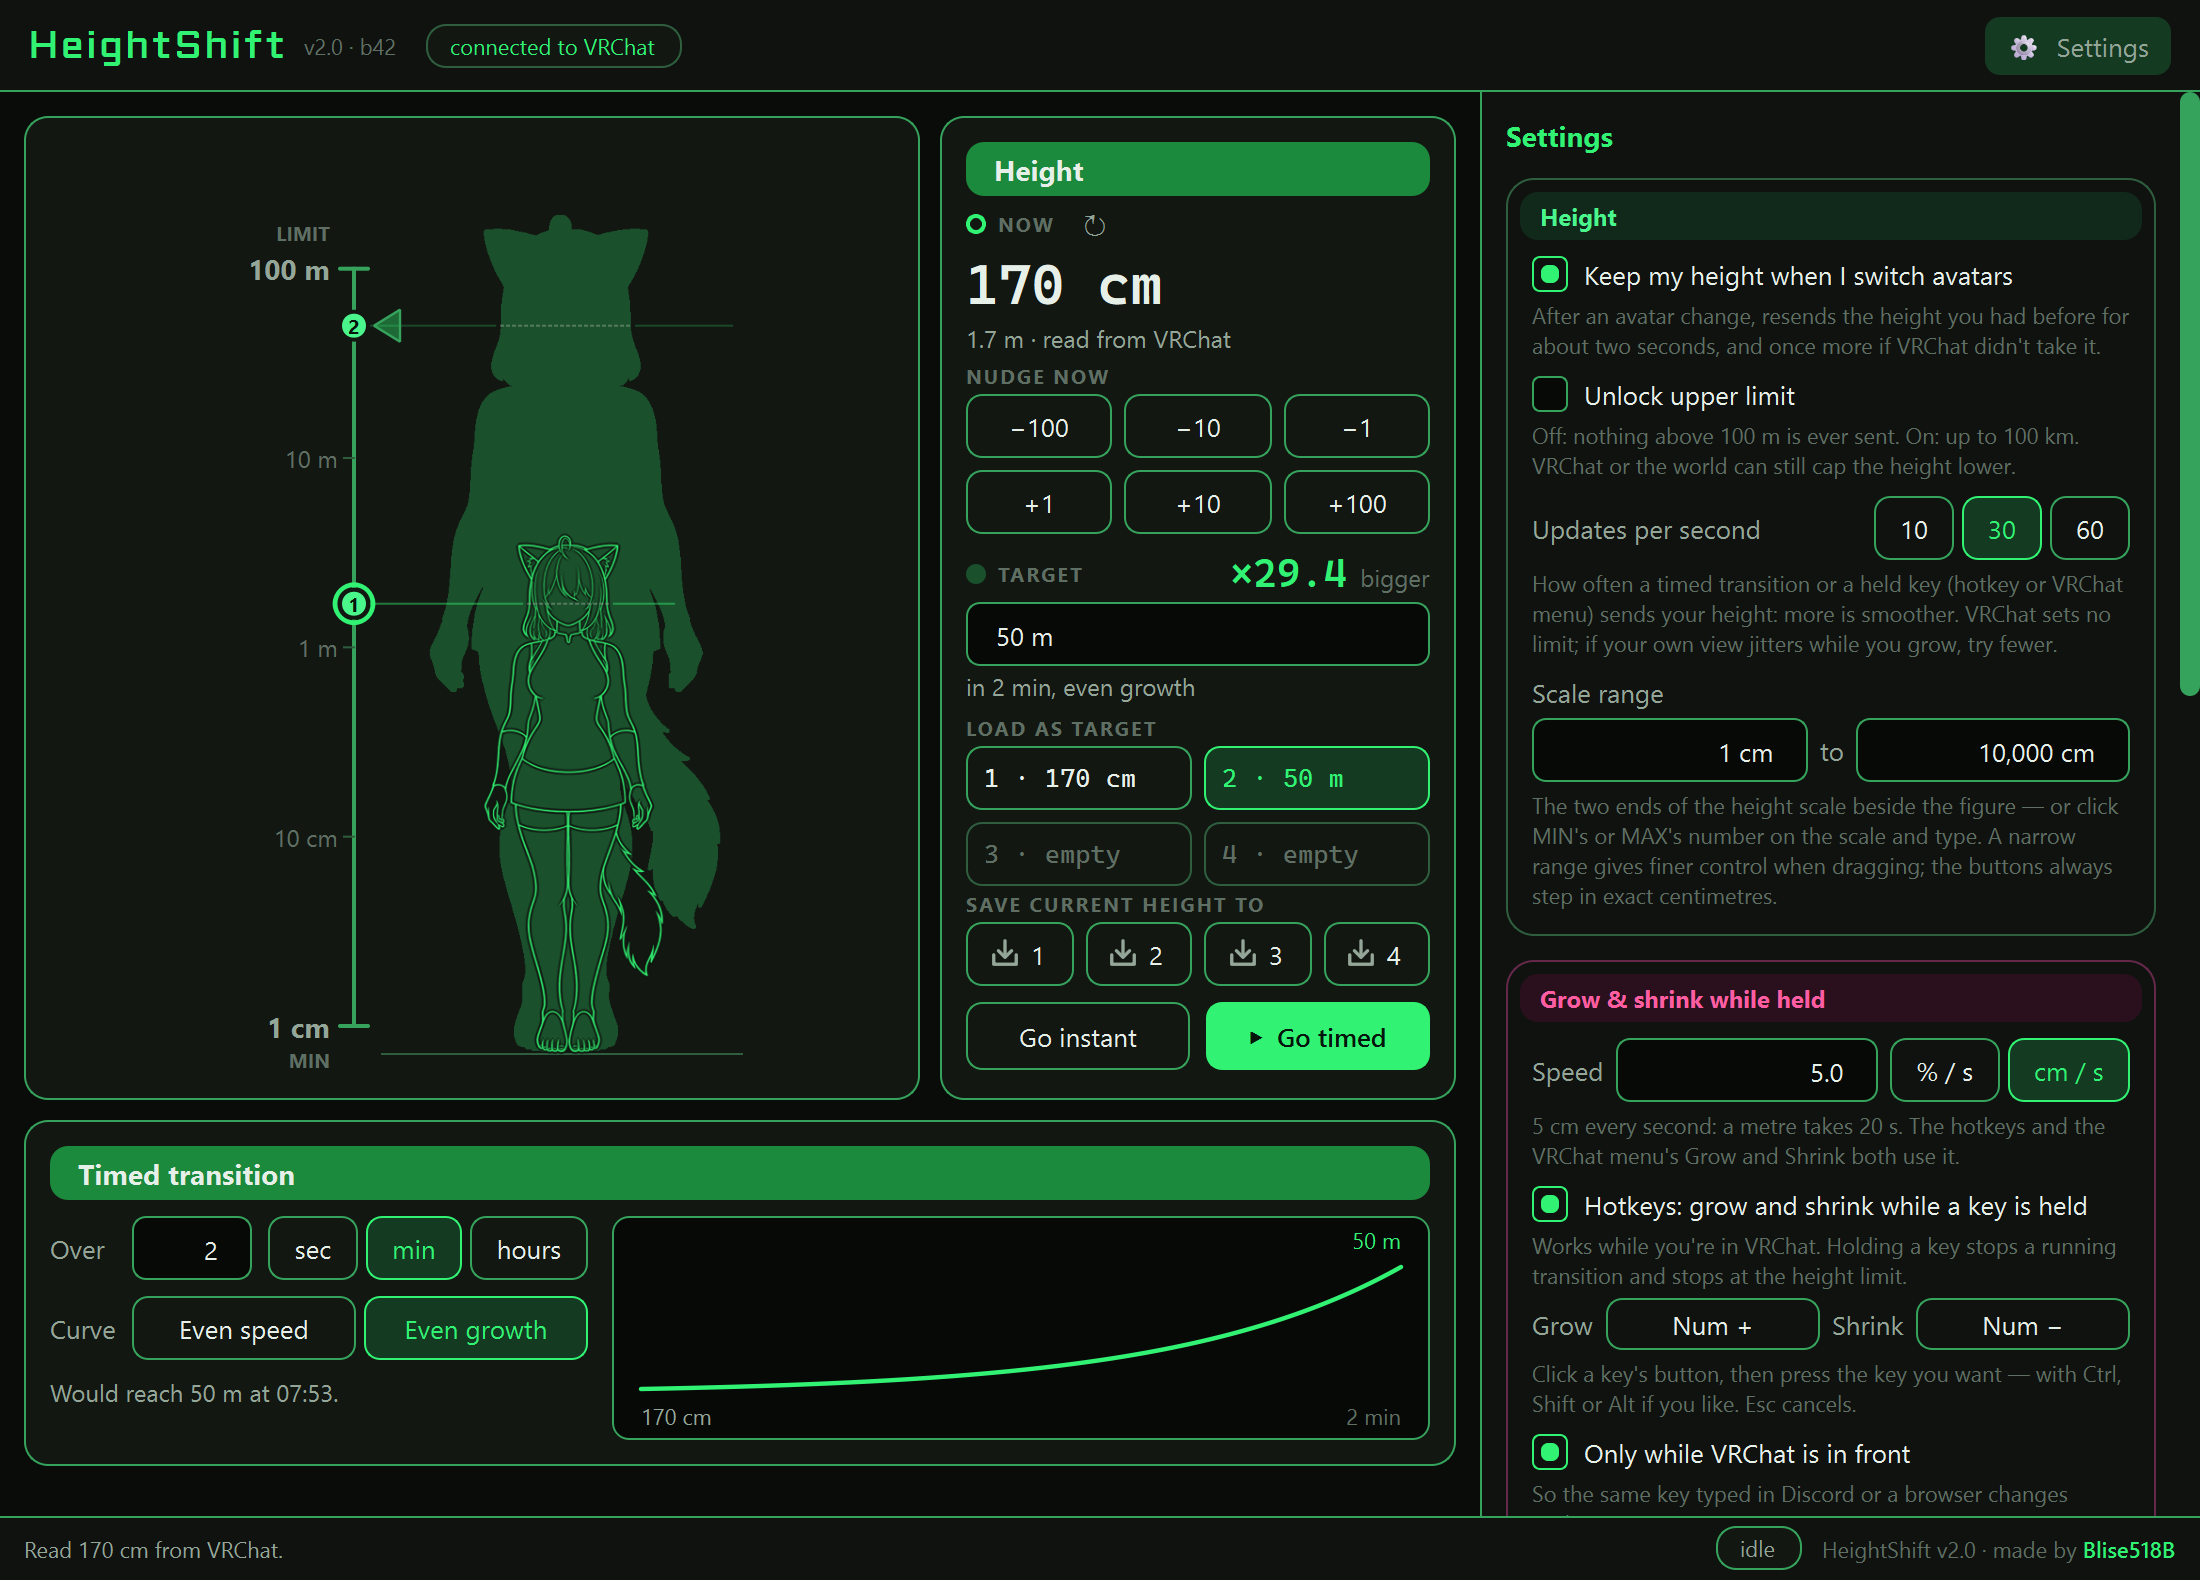
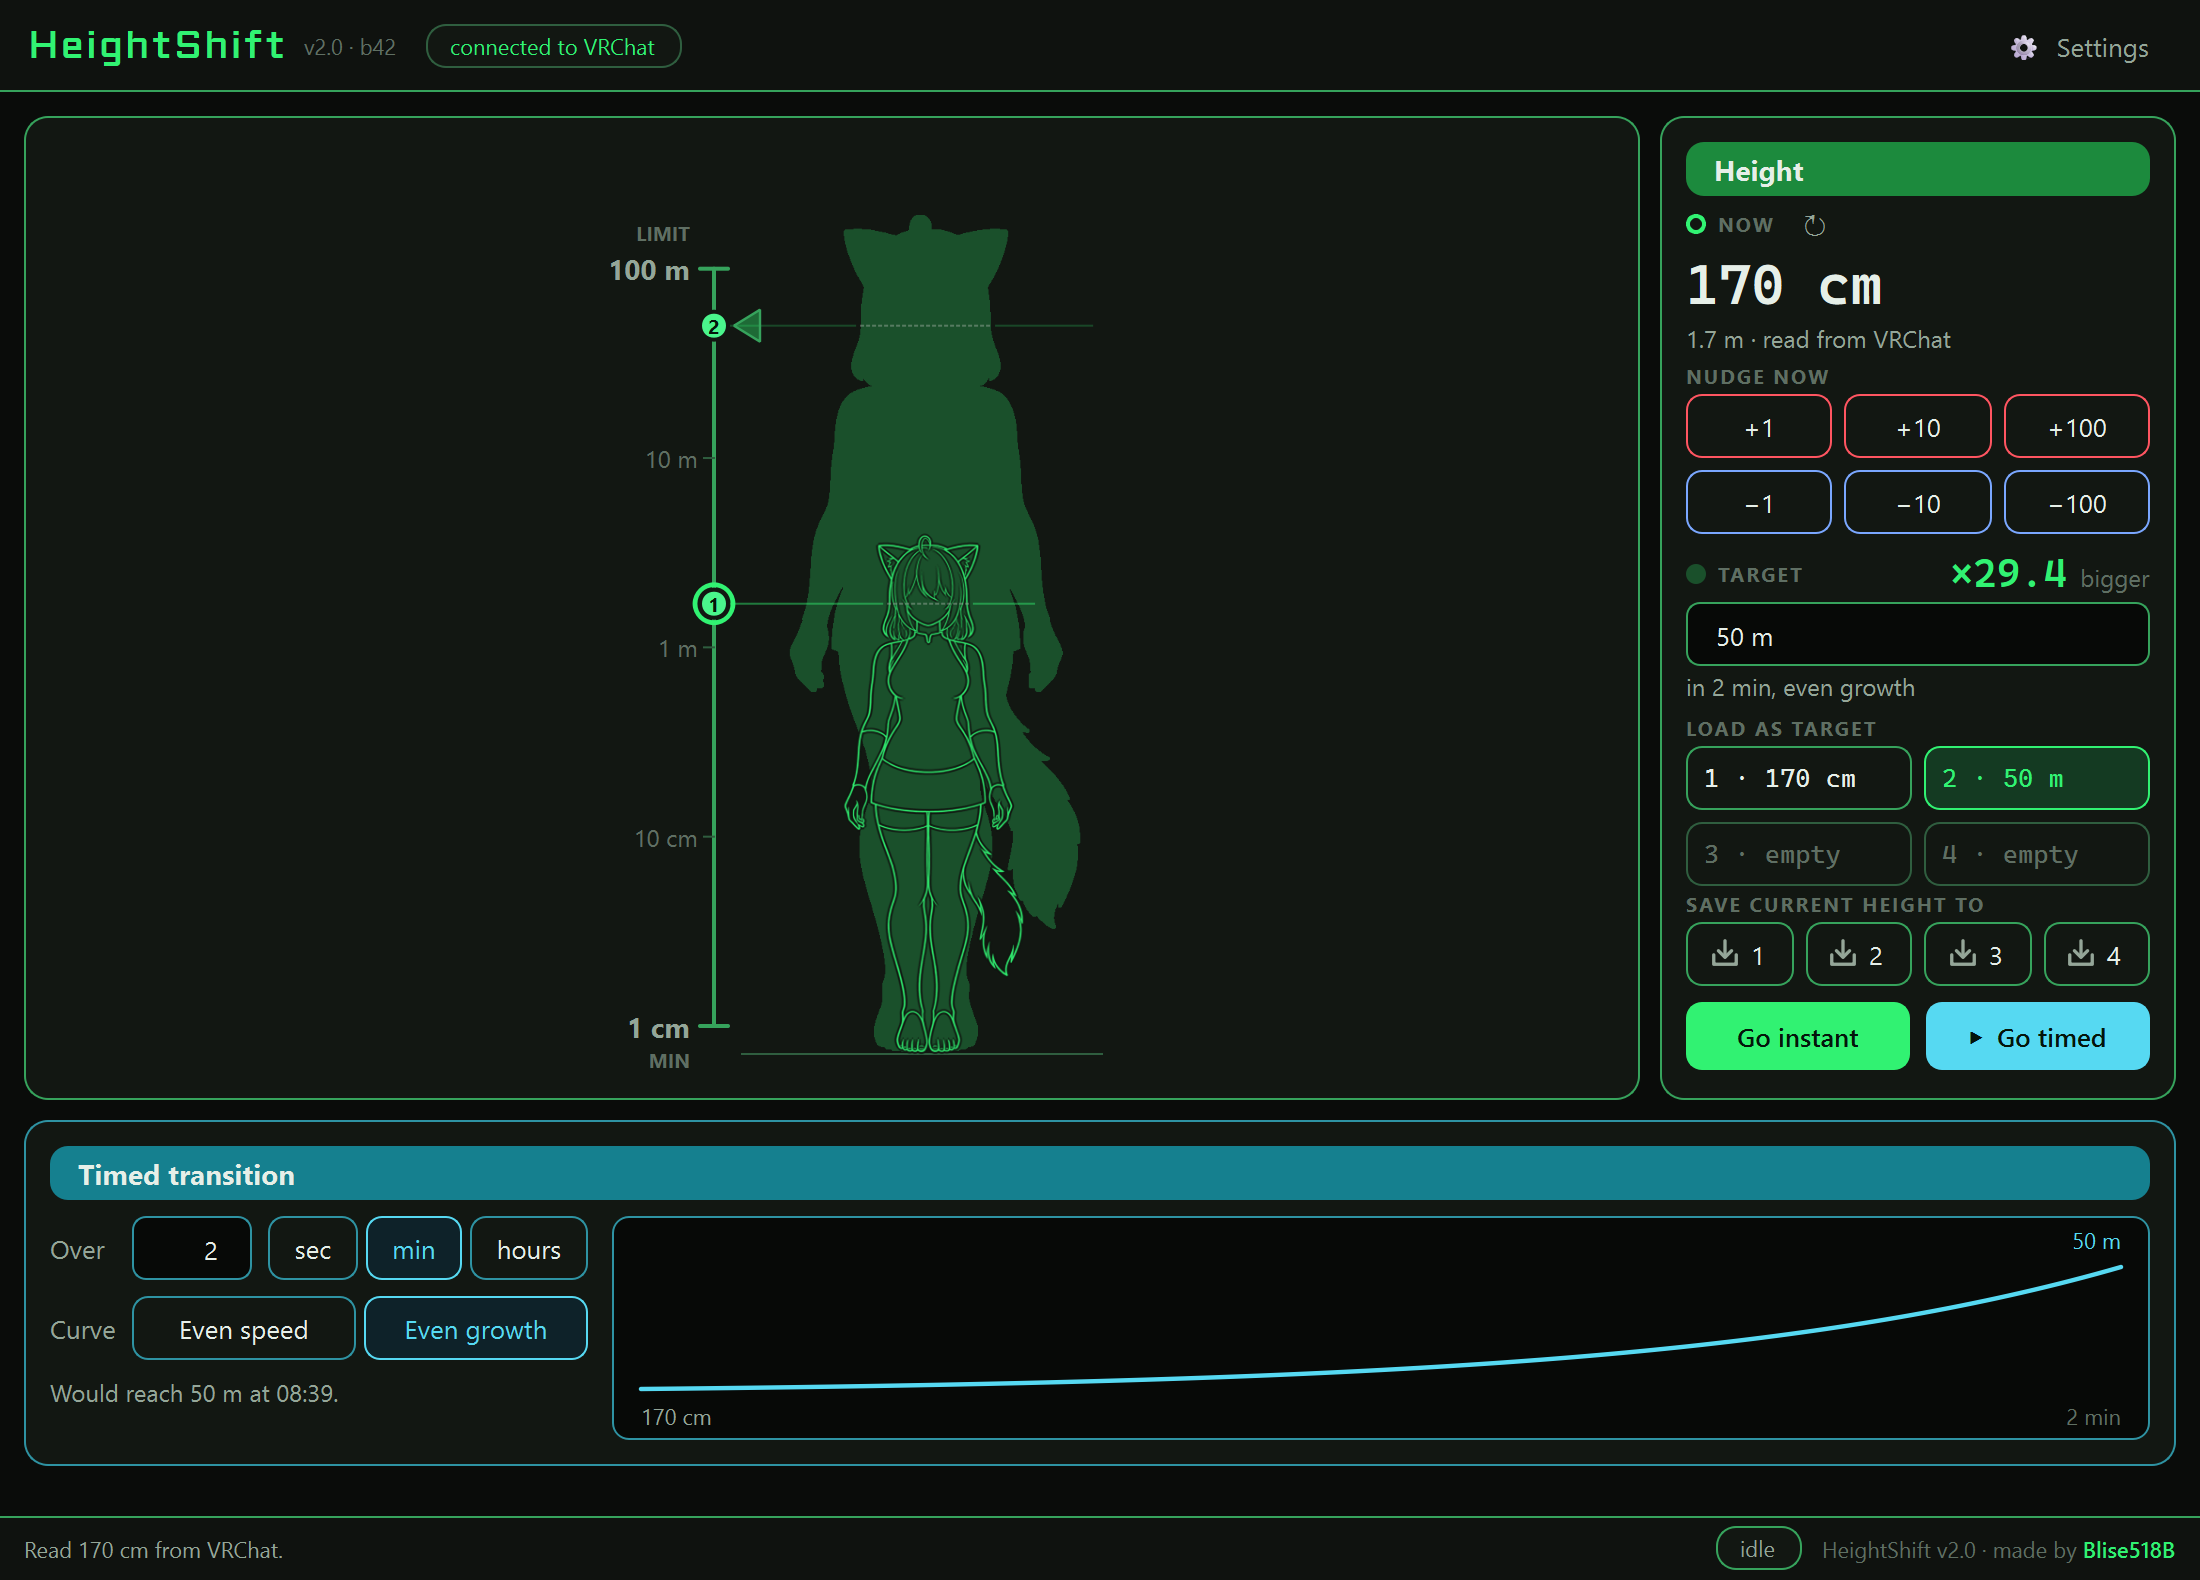
feat: Go instant green, Go timed cyan with its card; + above -
- Go instant is filled in the Height panel's green, Go timed in cyan, and
  the Timed transition card takes the same cyan: frame, bar, chosen unit
  and curve, graph
- Nudge now: +1 over -1, +10 over -10, +100 over -100

diff --git a/ui/theme.py b/ui/theme.py
@@ -89,6 +89,15 @@ QLabel#MenuGuideLine { color: %(muted)s; font-size: 12px; }
 QLabel#Chip { min-height: 20px; max-height: 20px; }
 
 QPushButton#Step { padding: 6px 10px; min-width: 50px; }
+QPushButton#GoTimed { background: %(timed)s; border-color: %(timed)s; color: %(ink)s; font-weight: 650; }
+QPushButton#GoTimed:hover { background: %(timed_hover)s; border-color: %(timed_hover)s; color: %(ink)s; }
+QPushButton#GoTimed:disabled { background: transparent; border-color: %(timed_mid)s; color: %(dim)s; }
+QFrame#Card[hue="timed"] { border-color: %(timed_line)s; }
+QFrame#Card[hue="timed"] QLabel#SectionTitle { background: %(timed_bar)s; color: %(timed_bar_text)s; }
+QFrame#Card[hue="timed"] QPushButton, QFrame#Card[hue="timed"] QAbstractSpinBox { border-color: %(timed_line)s; }
+QFrame#Card[hue="timed"] QPushButton:hover { background: %(timed_tint)s; border-color: %(timed)s; color: %(timed)s; }
+QFrame#Card[hue="timed"] QPushButton:checked { background: %(timed_tint)s; border-color: %(timed)s; color: %(timed)s; }
+QFrame#Card[hue="timed"] QAbstractSpinBox:focus { border-color: %(timed)s; }
 QPushButton#Step[sign="plus"] { border-color: %(plus)s; }
 QPushButton#Step[sign="plus"]:hover { background: %(plus_tint)s; border-color: %(plus)s; color: %(plus)s; }
 QPushButton#Step[sign="minus"] { border-color: %(minus)s; }
@@ -115,6 +124,8 @@ QAbstractSpinBox {
     min-height: 20px; max-height: 20px;
 }
 QAbstractSpinBox:focus { border-color: %(accent)s; }
+QFrame#Card[hue="timed"] QAbstractSpinBox { border: 1px solid %(timed_line)s; }
+QFrame#Card[hue="timed"] QAbstractSpinBox:focus { border: 1px solid %(timed)s; }
 QAbstractSpinBox:disabled, QPushButton:disabled { color: %(dim)s; }
 QPushButton#Primary:disabled { background: transparent; border-color: %(green_mid)s; color: %(dim)s; }
 QPushButton:disabled { border-color: %(green_mid)s; }
@@ -170,6 +181,15 @@ def colors() -> Dict[str, str]:
     # 2026-11-11 — an exception to red = errors only, see ui-style.md)
     v["plus"], v["plus_mid"], v["plus_tint"] = T.PALETTE["red"]
     v["minus"], v["minus_mid"], v["minus_tint"] = T.PALETTE["blue"]
+    # The timed transition's cyan (design-518.md: running, live): Go timed,
+    # and its card's frame, bar, choices and graph, so they read as one thing.
+    # Neon gets the filled bar tones VRCParameterRelay uses for cyan.
+    vib, mid, tint = T.PALETTE["cyan"]
+    v["timed"], v["timed_mid"], v["timed_tint"], v["timed_hover"] = vib, mid, tint, "#8be6f7"
+    if _mode == "neon":
+        v["timed_bar"], v["timed_bar_text"], v["timed_line"] = "#15808f", v["txt"], "#2e93a3"
+    else:
+        v["timed_bar"], v["timed_bar_text"], v["timed_line"] = tint, vib, mid
     # the updater's orange (design-518.md: updaters, nags, pending installs)
     v["upd"], v["upd_mid"], v["upd_tint"] = T.PALETTE["orange"]
     # the size comparison's target shadow (ui/figure.py), for its colour key

diff --git a/ui/window.py b/ui/window.py
@@ -405,9 +405,9 @@ class HeightShiftWindow(QMainWindow):
         steps.setHorizontalSpacing(6)
         steps.setVerticalSpacing(6)
         self.step_btns = []
-        # -N over +N, smallest step first: each column one size, shrink in
-        # a blue frame above grow in a red one
-        for i, delta in enumerate((-1, -10, -100, 1, 10, 100)):
+        # +N over -N, smallest step first: each column one size, grow in a
+        # red frame above shrink in a blue one
+        for i, delta in enumerate((1, 10, 100, -1, -10, -100)):
             sign = "+" if delta > 0 else "−"      # a real minus sign
             btn = QPushButton(f"{sign}{abs(delta)}")
             btn.setObjectName("Step")
@@ -471,14 +471,16 @@ class HeightShiftWindow(QMainWindow):
         go = QGridLayout()
         go.setHorizontalSpacing(8)
         go.setVerticalSpacing(6)
+        # Each its own colour: Go instant the Height panel's green (it acts
+        # right here), Go timed cyan like the Timed transition card it runs
         self.go_instant_btn = QPushButton("Go instant")
-        self.go_instant_btn.setObjectName("GoInstant")
+        self.go_instant_btn.setObjectName("Primary")
         self.go_instant_btn.clicked.connect(self.go_instant_clicked.emit)
         self.play_btn = QPushButton("▶  Go timed")
-        self.play_btn.setObjectName("Primary")
+        self.play_btn.setObjectName("GoTimed")
         self.play_btn.clicked.connect(self.play_clicked.emit)
         self.pause_btn = QPushButton("‖  Pause")
-        self.pause_btn.setObjectName("Primary")      # never shown together with Go timed
+        self.pause_btn.setObjectName("GoTimed")      # never shown together with Go timed
         self.pause_btn.clicked.connect(self.pause_clicked.emit)
         self.stop_btn = QPushButton("■  Stop")
         self.stop_btn.setToolTip("Stop here: the avatar keeps the height it has reached")
@@ -499,6 +501,7 @@ class HeightShiftWindow(QMainWindow):
         """Go timed's timing: how long, which curve, the graph of it, and
         what it is doing."""
         frame, lay = card("Timed transition")
+        frame.setProperty("hue", "timed")      # Go timed's cyan: frame, bar, choices, graph
         self.transition_card = frame
 
         top = hbox(spacing=12)

diff --git a/ui/graph.py b/ui/graph.py
@@ -55,7 +55,9 @@ class TransitionGraph(QWidget):
         fm = p.fontMetrics()
 
         outer = QRectF(self.rect()).adjusted(0.5, 0.5, -0.5, -0.5)
-        p.setPen(QPen(QColor(c["line"]), 1))
+        # the Timed transition card's cyan (theme.colors "timed"), like Go timed
+        accent, faded, rim = c["timed"], c["timed_mid"], c["timed_line"]
+        p.setPen(QPen(QColor(rim), 1))
         p.setBrush(QColor(c["well"]))
         p.drawRoundedRect(outer, 8, 8)
 
@@ -83,7 +85,7 @@ class TransitionGraph(QWidget):
         for i in range(1, samples + 1):
             full.lineTo(pt(i / samples))
         p.setBrush(Qt.NoBrush)
-        p.setPen(QPen(QColor(c["green_mid"] if done > 0 else c["accent"]), 2.2,
+        p.setPen(QPen(QColor(faded if done > 0 else accent), 2.2,
                       Qt.SolidLine, Qt.RoundCap, Qt.RoundJoin))
         p.drawPath(full)
 
@@ -92,7 +94,7 @@ class TransitionGraph(QWidget):
             path = QPainterPath(pt(0.0))
             for i in range(1, n + 1):
                 path.lineTo(pt(done * i / n))
-            p.setPen(QPen(QColor(c["accent"]), 2.6, Qt.SolidLine, Qt.RoundCap, Qt.RoundJoin))
+            p.setPen(QPen(QColor(accent), 2.6, Qt.SolidLine, Qt.RoundCap, Qt.RoundJoin))
             p.drawPath(path)
 
         # Labels in the text rows above and below the plot, each in the corner
@@ -106,14 +108,14 @@ class TransitionGraph(QWidget):
         left, right = Qt.AlignLeft | Qt.AlignVCenter, Qt.AlignRight | Qt.AlignVCenter
         p.setPen(QColor(c["muted"]))
         p.drawText(bottom_row if rising else top_row, left, format_height(self._start))
-        p.setPen(QColor(c["accent"]))
+        p.setPen(QColor(accent))
         p.drawText(top_row if rising else bottom_row, right, format_height(self._end))
         p.setPen(QColor(c["dim"]))
         p.drawText(bottom_row if rising else top_row, right, self._duration_text)
 
         if self._progress is not None:
             head = pt(done)
-            accent = QColor(c["accent"])
+            accent = QColor(accent)
             line = QColor(accent)
             line.setAlpha(110)
             p.setPen(QPen(line, 1))

diff --git a/CHANGELOG.md b/CHANGELOG.md
@@ -57,8 +57,10 @@ A reworked window around one idea: pick a target, then go there instantly or ove
 - A first start opens a compact window (608 × 778) with the Height panel beside the figure and Settings
   folded. In a narrower window the figure shrinks first (to about 60 %); only when even that doesn't
   fit does the panel go under it, and the window never gets narrower than its controls.
-- Nudge now is three columns, −1 over +1, −10 over +10, −100 over +100: shrink in a blue frame, grow
-  in a red one.
+- Nudge now is three columns, +1 over −1, +10 over −10, +100 over −100: grow in a red frame, shrink
+  in a blue one.
+- Go instant is filled in the Height panel's green, Go timed in cyan — and the Timed transition card it
+  runs wears the same cyan (frame, bar, the chosen unit and curve, the graph).
 - "Unlock upper limit" goes up to 1000 m (was 100 km), and switching it on stretches the height
   scale's top from 100 m to 1000 m (off: back to 100 m; a range narrowed by hand stays).
 

diff --git a/README.md b/README.md
@@ -51,7 +51,7 @@ steps, hold a key, or use its own menu in VRChat.
 - **Unlock upper limit** — off: nothing above 100 m is ever sent. On: up to 1000 m, and the height
   scale's top goes up to 1000 m with it (off again: back to 100 m). VRChat or the world may still cap
   it lower.
-- Nudge now: ±1, ±10, ±100 cm, sent at once (−N in a blue frame over +N in a red one). Save current height to: stores your height in one of the four
+- Nudge now: ±1, ±10, ±100 cm, sent at once (+N in a red frame over −N in a blue one). Save current height to: stores your height in one of the four
   saved heights.
 - **Keep my height when I switch avatars** — resends the height you had *before* the change for about
   two seconds, and once more if VRChat didn't take it. Any manual change cancels it.
